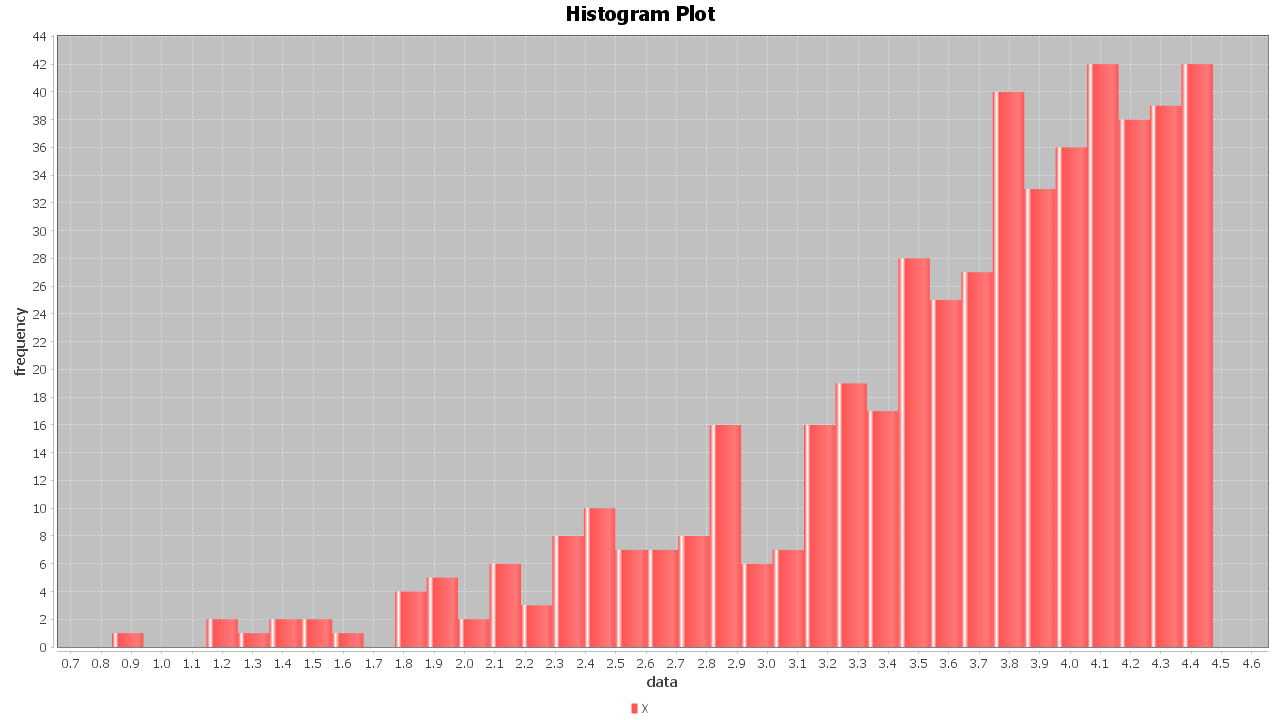
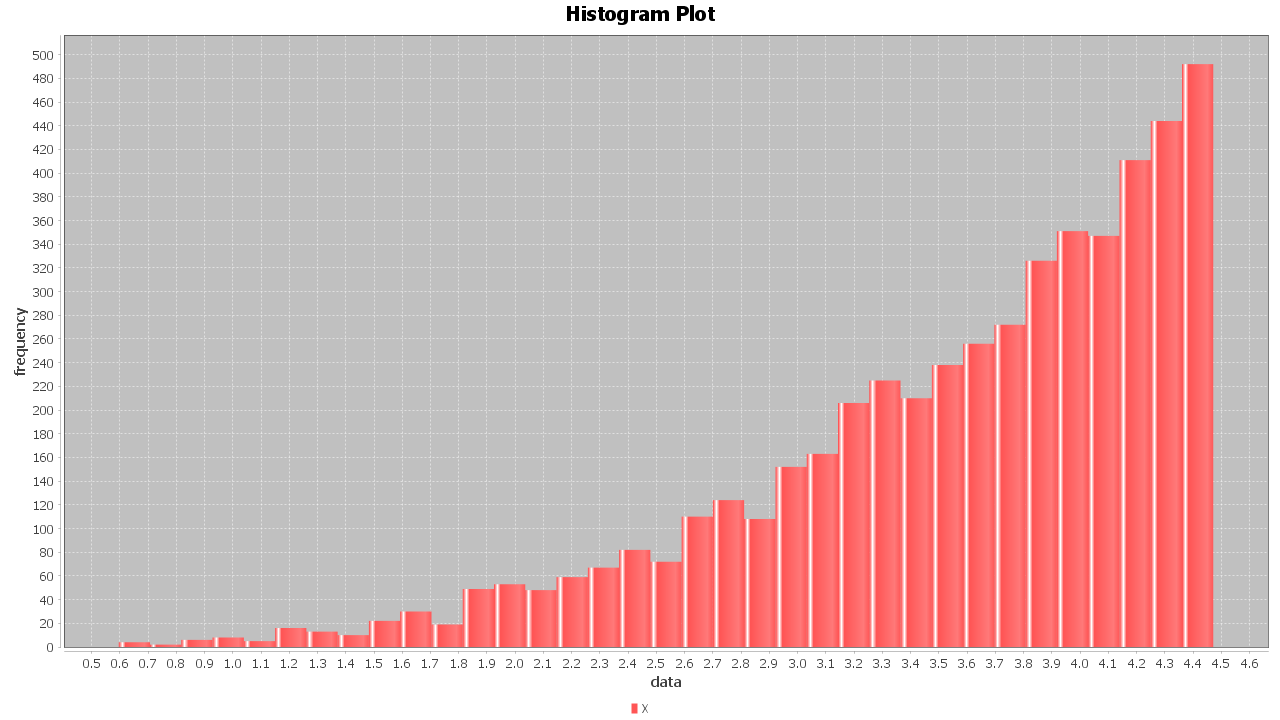
added the feature of showing histogram in jpanel

Changed region(s): [[0.0312, 0.0306, 0.9375, 0.9778]]

diff --git a/src/main/java/Driver.java b/src/main/java/Driver.java
@@ -1,15 +1,23 @@
+import javax.imageio.ImageIO;
+import javax.swing.*;
+import java.awt.image.BufferedImage;
+import java.io.File;
 import java.io.IOException;
 
 public class Driver {
 
-  private static int N = 500;
+  private static int N = 5000;
   public static void main(String[] args) throws IOException {
     Distributor distributor = new Distributor(makeRandomBetweenZeroAndOne(N));
     double[] distributedRandomData = distributor.getDistributedDataset();
     double[] probabilityDensity = getProbabilityDensities(distributedRandomData);
 
+    //making histogram
     HistogramPlot histogramPlot = new HistogramPlot(distributedRandomData,"test");
-    histogramPlot.createHistogram();
+    File histogramImage = histogramPlot.createHistogram();
+
+    //showing histogram
+    showHistogramInWindow(histogramImage);
 
     //printing mathematical expectation
     double mathematicalExpectationOfX = Ex(distributedRandomData, probabilityDensity);
@@ -54,4 +62,18 @@ public class Driver {
     double ExSquared = Ex(dataset,probabilities);
     return ExSquared - Math.pow(Ex,2);
   }
+
+  private static void showHistogramInWindow(File histogramImage) throws IOException {
+    JPanel panel = new JPanel();
+    BufferedImage image = ImageIO.read(histogramImage);
+    JLabel label = new JLabel(new ImageIcon(image));
+    panel.add(label);
+    JFrame.setDefaultLookAndFeelDecorated(true);
+    JFrame frame = new JFrame("java-stats");
+    frame.setDefaultCloseOperation(JFrame.EXIT_ON_CLOSE);
+    frame.add(panel);
+    frame.pack();
+    frame.setVisible(true);
+  }
+
  }

diff --git a/src/main/java/HistogramPlot.java b/src/main/java/HistogramPlot.java
@@ -15,12 +15,13 @@ public class HistogramPlot {
     this.imageName = imageName;
   }
 
-  public void createHistogram() throws IOException {
+  public File createHistogram() throws IOException {
     HistogramDataset dataset = new HistogramDataset();
     dataset.addSeries("X", this.data, 35);
     JFreeChart histogram = ChartFactory.createHistogram("Histogram Plot",
         "data", "frequency", dataset);
     File outputFile = new File(System.getProperty("user.dir") + "/histograms/" + this.imageName + ".png");
     ChartUtils.saveChartAsPNG(outputFile, histogram, 1280, 720);
+    return outputFile;
   }
 }
